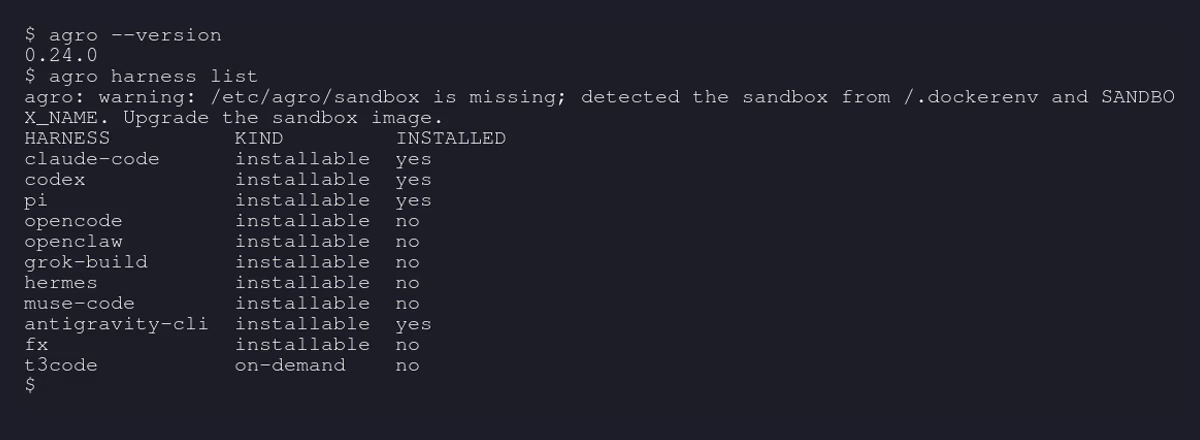
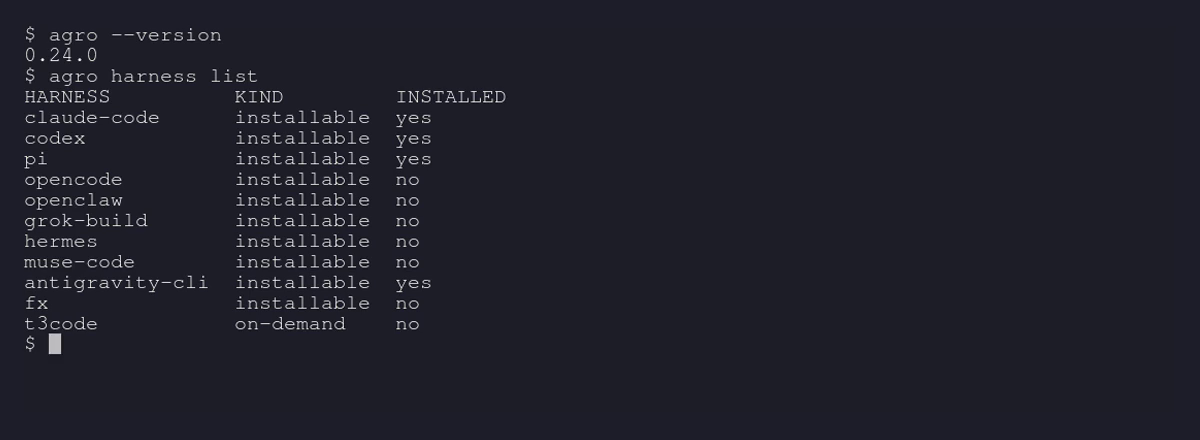
fix: re-record self-host CLI clip

diff --git a/posts/agro-getting-started.md b/posts/agro-getting-started.md
@@ -107,7 +107,7 @@ Run `agro harness list` to see every harness id. Each install goes into `~/.loca
   <source src="/blog/agro-getting-started/agro-cli.mp4" type="video/mp4" />
 </video>
 
-*A real recording with the v0.24.0 CLI: `agro --version` prints `0.24.0`, and `agro harness list` shows each harness and whether it is installed. The recording ran in an older sandbox image, so the CLI also prints an upgrade warning.*
+*A real recording with the v0.24.0 CLI: `agro --version` prints `0.24.0`, and `agro harness list` shows each harness and whether it is installed.*
 
 ![A Herdr pane runs agro harness install claude-code and reports that claude-code is installed, with a link to its authentication guide.](/blog/agro-getting-started/quickstart-harness-install.png)
 
